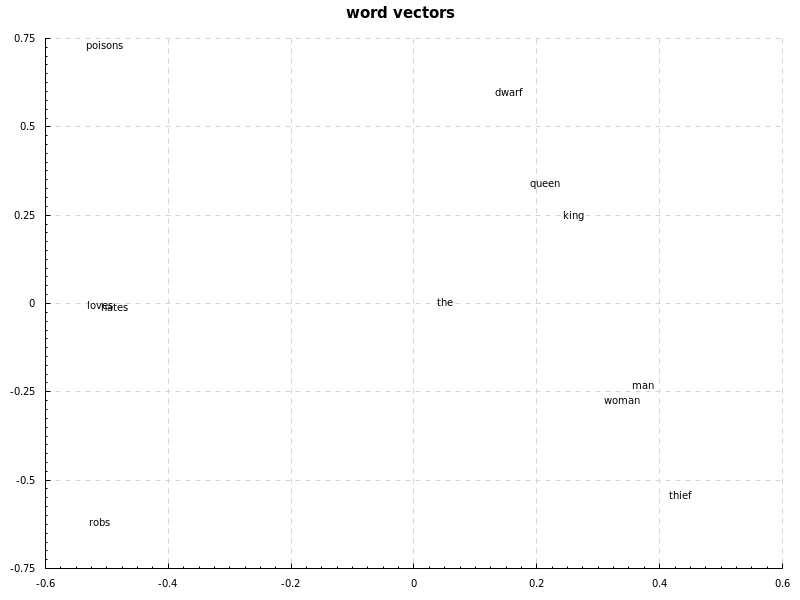
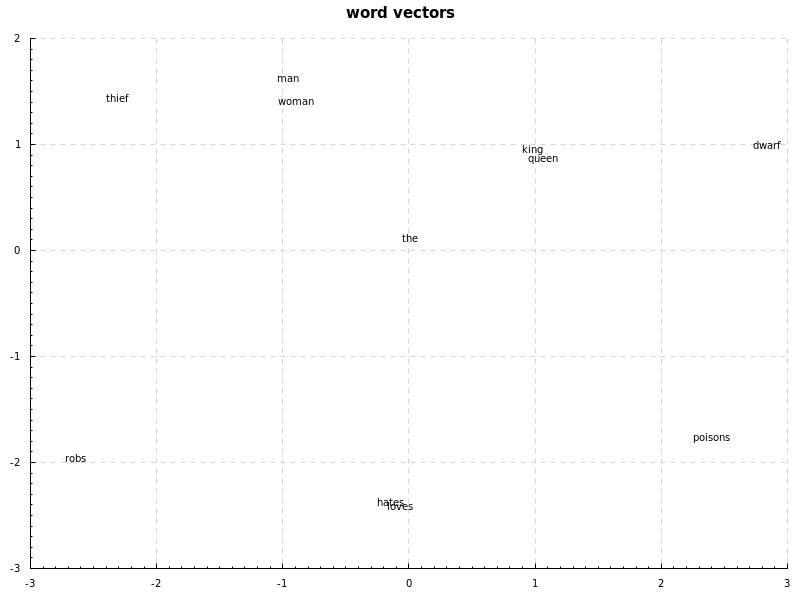
feat(pca): implement PCA and visualize data using it

diff --git a/README.md b/README.md
@@ -87,11 +87,27 @@ the thief robs the man
 the thief robs the woman
 ```
 
-The computed vectors are transformed to two dimensions using SVD:
+The computed vectors are transformed to two dimensions using PCA:
 
 `king` and `queen` have a relation with `man` and `woman`, `love` and `hate` are close to each other,
 and `dwarf` and `thief` have a relation with `poisons` and `robs`, also, `dwarf` is close to `queen` and `king` while
 `thief` is closer to `man` and `woman`. `the` doesn't relate to anything.
 ![word2vec results](https://raw.githubusercontent.com/mdibaiee/sibe/master/w2v.png)
 
-This is a very small dataset and I have to test it on larger datasets.
+_You can reproduce this result using these parameters:_
+```haskell
+let session = def { learningRate = 0.1
+                  , batchSize = 1
+                  , epochs = 10000
+                  , debug = True
+                  } :: Session
+    w2v = def { docs = ds
+              , dimensions = 30
+              , method = SkipGram
+              , window = 2
+              , w2vDrawChart = True
+              , w2vChartName = "w2v.png"
+              } :: Word2Vec
+```
+
+This is a very small development dataset and I have to test it on larger datasets.
